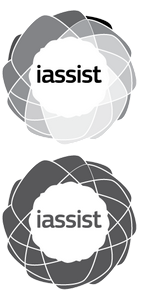
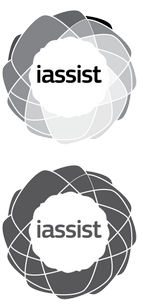
What is needed for the blog and linking it from the home page carousel.

diff --git a/static/css/custom.css b/static/css/custom.css
@@ -100,6 +100,7 @@ dl dt:first-of-type {
   transition: all 0.2s ease-out;
 }
 
+
 /* --- Various accessibility fixes added to Pink theme. --- */
 
 .btn-template-main {
@@ -187,4 +188,12 @@ div.home-carousel {
 .linkButton:active {
 	position:relative;
 	top:1px;
+}
+
+p.carouselText a {
+    color: navy; /*  */
+	background-color: yellow;
+	border: 3px white solid;
+	opacity: 0.5;	
+	padding: .25em;
 }

diff --git a/content/blog/introducing-the-new-iassist-website.md b/content/blog/introducing-the-new-iassist-website.md
@@ -24,7 +24,7 @@ The third interpretation of the Association's web presence was presented in 2010
 
 This time, the logo didn't change, although it has been very lightly enhanced for certain website uses and new grayscale and single colour versions have been introduced. We have moved away from Drupal and are using state-of-the-art static website generator technologies. We believe that this approach should give us security, speed, simplicity, and precise control over the look and feel of the site. The new site is suitable to mobile use and meets basic accessibility requirements. 
 
-{{< figure src="/img/blog/iassist_logo_wordmark-without-s-final1002.png" class="no-class-defined" alt="IASSIST enhanced logo" title="" width="" >}}
+{{< figure src="/img/blog/iassist_logo_wordmark-blog-use-only-2.png" class="no-class-defined" alt="IASSIST enhanced logo" title="" width="" >}}
 
 {{< figure src="/img/blog/gs1sc.png" class="wrap" alt="IASSIST's grayscale and singe colour logos." title="" width="102" >}}
 
